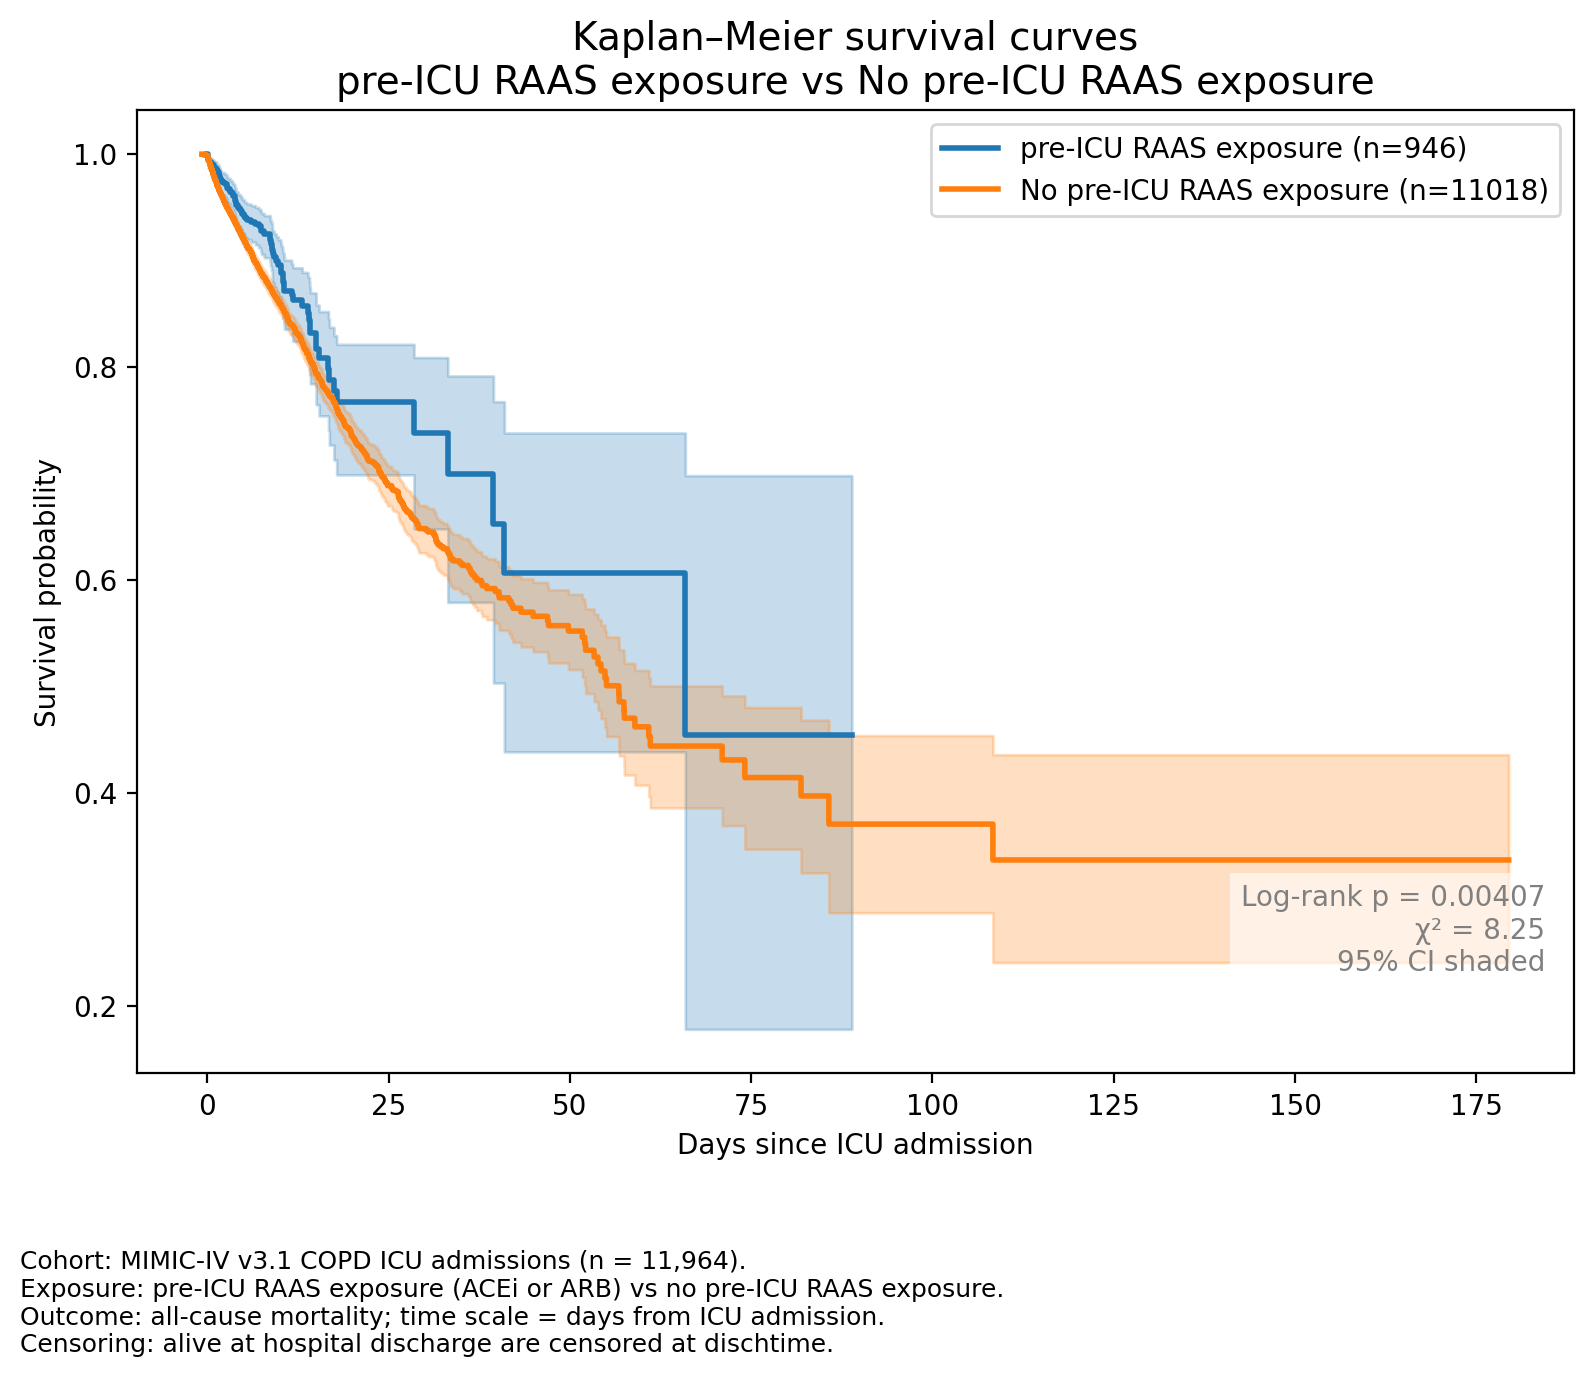
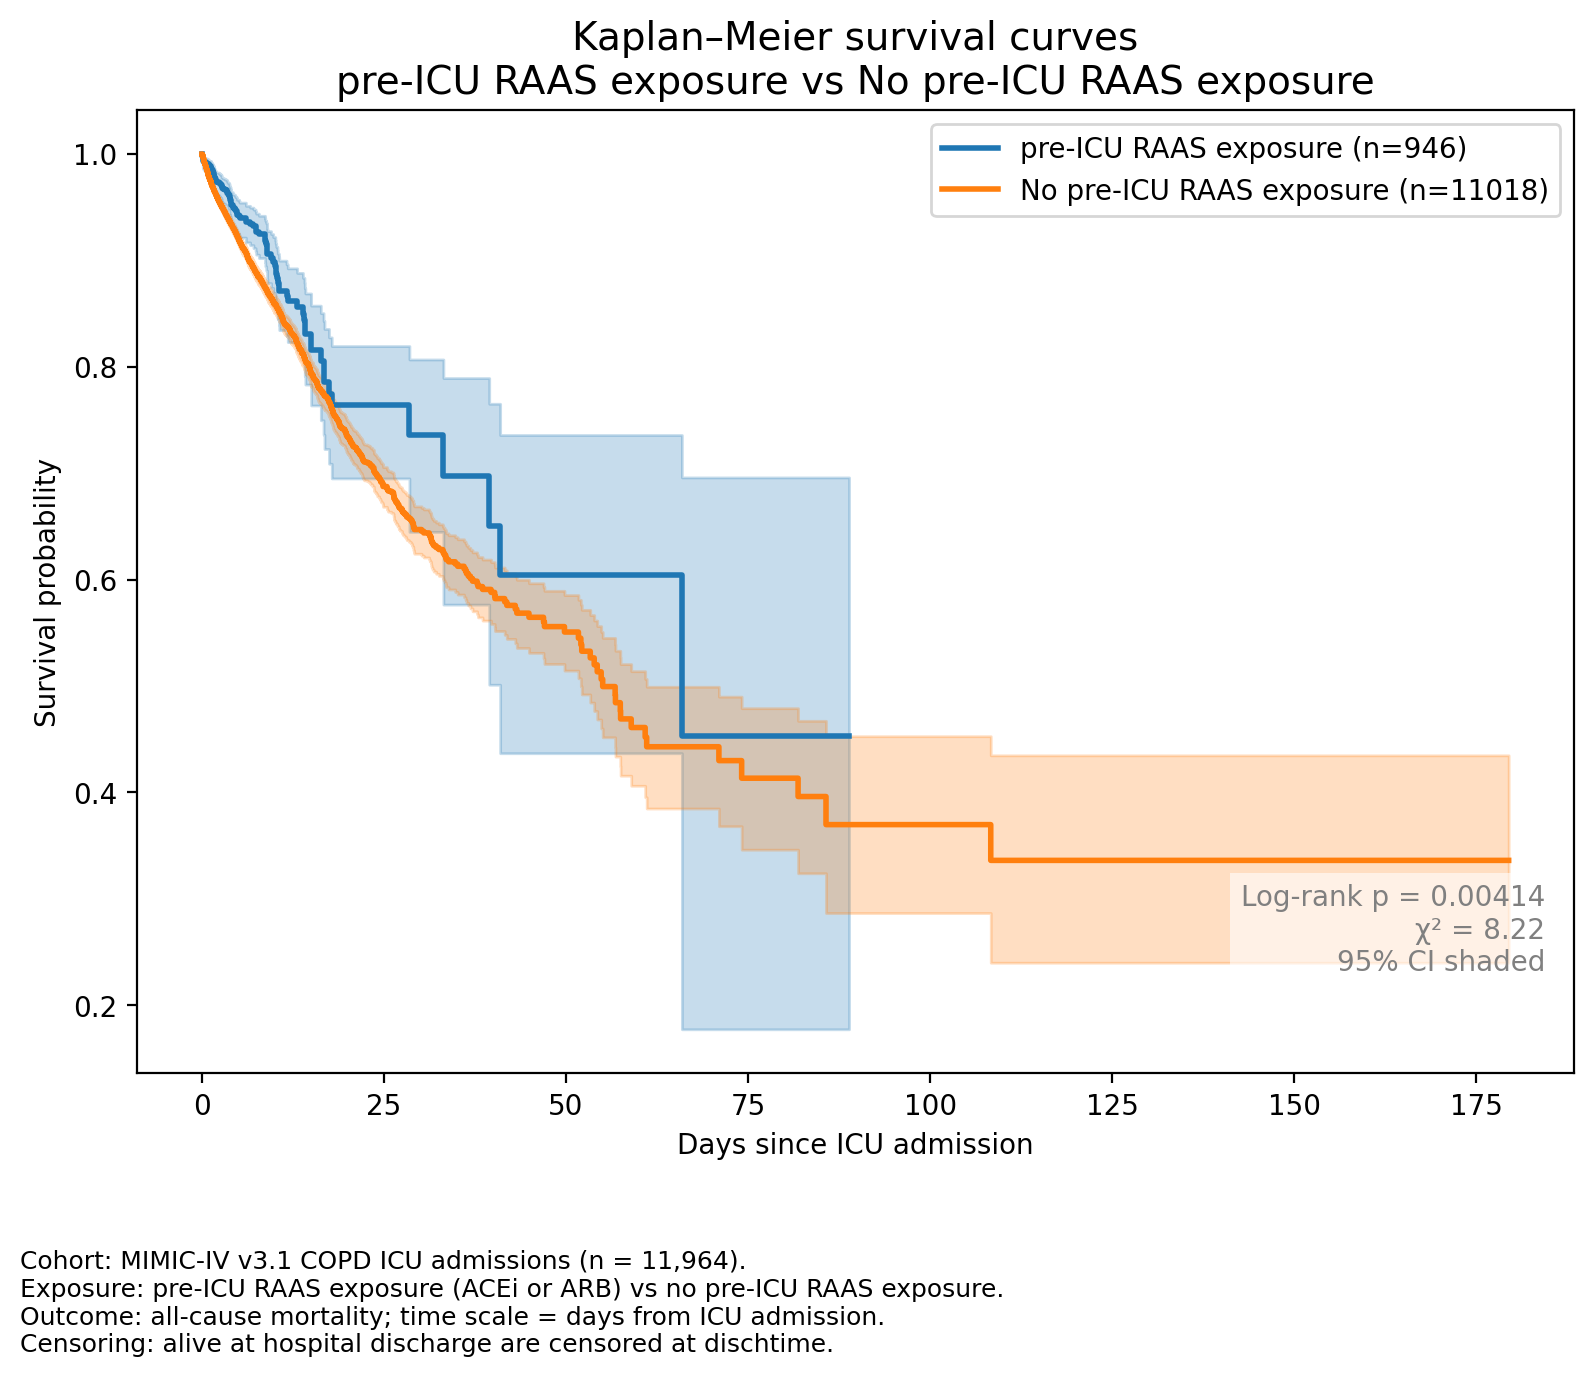
Correct COPD survival endpoint and align documentation

diff --git a/README.md b/README.md
@@ -27,8 +27,9 @@ The Quarto report provides the single narrative version of the study question, m
 | Data source | MIMIC-IV v3.1 |
 | Design | Retrospective observational ICU cohort |
 | Population | Adult ICU patients with COPD |
+| Analytic unit | One qualifying hospital admission per record, anchored to the first ICU stay in that admission |
 | Exposure | Pre-ICU inpatient ACE inhibitor or ARB prescription orders before or at ICU admission |
-| Outcome | Time-to-in-hospital mortality from ICU admission to death or discharge |
+| Outcome | In-hospital death: ICU admission to recorded death time, with discharge-time fallback if death time is unavailable; live discharge: ICU admission to discharge, censored at discharge |
 | Primary analysis | Kaplan-Meier survival curves and Cox proportional hazards modeling |
 | Subgroup analysis | ACE inhibitor vs ARB monotherapy comparison |
 | Sensitivity analysis | Extended covariate and ICU type adjustment |
@@ -50,9 +51,9 @@ Exposure is based on inpatient medication orders before or at ICU admission and 
 ## Key Findings
 
 - Pre-ICU RAAS inhibitor exposure was associated with lower observed in-hospital mortality in Kaplan-Meier and Cox survival analyses.
-- The refined proportional hazards-compliant Cox model estimated HR 0.71 (95% CI 0.58-0.88) for combined pre-ICU RAAS exposure.
+- The refined proportional hazards-compliant Cox model estimated HR 0.72 (95% CI 0.58-0.89; p = 0.00208) for combined pre-ICU RAAS exposure.
 - ACE inhibitor monotherapy showed a stronger observed association than ARB monotherapy; ARB estimates were directionally lower-hazard but not statistically significant.
-- Extended adjustment, including ICU type and additional severity/case-mix variables, attenuated the association.
+- Extended adjustment, including ICU type and additional severity/case-mix variables, attenuated the association. The unpenalized extended core estimate was borderline and did not meet conventional statistical significance (HR 0.809, 95% CI 0.654-1.001; p = 0.05072).
 
 See [Results summary](docs/RESULTS_SUMMARY.md) and [Discussion and limitations](docs/DISCUSSION_AND_LIMITATIONS.md) for interpretation details.
 
@@ -76,11 +77,11 @@ Figures shown in the README are generated from the analysis notebooks and saved 
 
 This unadjusted survival curve compares observed in-hospital survival patterns between ICU COPD patients with and without pre-ICU RAAS inhibitor exposure.
 
-### Cox Hazard Ratio Forest Plot
+### Extended Core Cox Model Forest Plot
 
 ![Cox hazard ratio forest plot](assets/cox_forest_plot.png)
 
-This forest plot summarizes adjusted Cox proportional hazards estimates for the survival-analysis workflow. The estimates should be interpreted as observational associations, not causal treatment effects.
+This forest plot is generated by the 04c extended-covariate notebook and summarizes the unpenalized extended core Cox model adjusted for age, sex, SOFA score, congestive heart failure, chronic kidney disease, and diabetes. It does not depict the refined primary 04a Cox model. In this extended core model, the RAAS estimate was borderline and did not meet conventional statistical significance (HR 0.809, 95% CI 0.654-1.001; p = 0.05072). All estimates should be interpreted as observational associations, not causal treatment effects.
 
 Additional portfolio figures include the RAAS subgroup forest plot and the extended covariate sensitivity comparison in [assets/](assets/).
 
@@ -160,6 +161,8 @@ Key limitations:
 - Inpatient prescription orders do not directly measure outpatient chronic medication use, adherence, dose, duration, or indication.
 - COPD status is identified using diagnosis codes recorded during hospitalization.
 - MIMIC-IV reflects ICU admissions from a specific health system and may not generalize to other settings.
+- Live discharge is treated as censoring in the primary Cox analysis; a competing-risk framework was not implemented.
+- Each record represents a qualifying hospital admission anchored to its first ICU stay. Patients may contribute more than one admission, and the Cox models do not include a patient-level clustering or frailty term.
 - ACE inhibitor vs ARB subgroup comparisons are descriptive and hypothesis-generating.
 - Extended covariate and ICU type adjustment attenuated the observed RAAS association, indicating sensitivity to case-mix and severity adjustment.
 

diff --git a/docs/METHODS_OVERVIEW.md b/docs/METHODS_OVERVIEW.md
@@ -8,7 +8,7 @@ This is a retrospective observational cohort study using MIMIC-IV v3.1, a de-ide
 
 ## Cohort Construction
 
-Adult ICU patients with COPD were identified using ICD-9 and ICD-10 diagnosis codes recorded during hospitalization. Cohort construction is performed at the ICU-stay/admission level using reproducible BigQuery SQL and notebook-based checks.
+Adult ICU patients with COPD were identified using ICD-9 and ICD-10 diagnosis codes recorded during hospitalization. Each analytic record represents one qualifying hospital admission, anchored to the first ICU stay within that admission; subsequent ICU stays during the same hospital admission are excluded. A patient may contribute more than one qualifying hospital admission. Cohort construction uses reproducible BigQuery SQL and notebook-based checks.
 
 Primary workflow:
 
@@ -25,7 +25,7 @@ Detailed exposure indicators include ACE inhibitor exposure, ARB exposure, dual 
 
 ## Outcome Definition
 
-The primary outcome is time-to-in-hospital mortality, measured from ICU admission until in-hospital death or hospital discharge. Patients discharged alive are censored at discharge.
+The primary outcome is time to in-hospital death, with follow-up beginning at ICU admission. For a death event, `time_to_event_days` is measured from ICU admission (`intime`) to the recorded in-hospital death time (`admissions.deathtime`); discharge time (`admissions.dischtime`) is used as an explicitly flagged fallback only when death time is unavailable. For a patient discharged alive, follow-up is measured from ICU admission to discharge time and the record is censored at discharge.
 
 ## Covariates
 
@@ -34,6 +34,8 @@ Covariates were selected a priori based on a conceptual clinical framework and i
 ## Statistical Analysis
 
 The primary clinical analysis uses Kaplan-Meier survival curves and Cox proportional hazards regression. Proportional hazards assumptions are assessed using Schoenfeld residual-based diagnostics. Sensitivity analyses evaluate extended covariates, ICU type, and penalized Cox specifications.
+
+Live discharge is treated as censoring in the primary Cox analysis. A competing-risk framework was not implemented. The Cox models analyze admission-level records and do not include a patient-level clustering or frailty term for patients with more than one qualifying admission.
 
 The `04d_python_logistic_model.ipynb` notebook is secondary validation only. It fits a logistic model to generate parameters for SAS-Python reproducibility comparison and does not replace the Cox survival analysis.
 

diff --git a/docs/RESULTS_SUMMARY.md b/docs/RESULTS_SUMMARY.md
@@ -6,20 +6,22 @@ This document provides a concise summary of the study findings without strengthe
 
 Pre-ICU RAAS inhibitor exposure was associated with lower observed in-hospital mortality among ICU-admitted COPD patients in Kaplan-Meier and Cox proportional hazards analyses.
 
-The refined proportional hazards-compliant Cox model estimated HR 0.71 (95% CI 0.58-0.88) for combined pre-ICU RAAS exposure.
+The refined proportional hazards-compliant Cox model estimated HR 0.72 (95% CI 0.58-0.89; p = 0.00208) for combined pre-ICU RAAS exposure.
 
 ## Subgroup Analysis
 
-ACE inhibitor monotherapy was associated with lower observed in-hospital mortality in the subclass Cox model. ARB monotherapy had a directionally lower-hazard but statistically non-significant estimate.
+ACE inhibitor monotherapy was associated with lower observed in-hospital mortality in the subclass Cox model (HR 0.663, 95% CI 0.507-0.869; p = 0.00286). ARB monotherapy had a directionally lower-hazard but statistically non-significant estimate (HR 0.800, 95% CI 0.569-1.124; p = 0.19883).
 
 Subclass comparisons are hypothesis-generating and may be affected by confounding by indication, prescribing history, contraindications, and differences in comorbidity profiles.
 
 ## Extended Covariate Models
 
-In the unpenalized core Cox model with extended covariates, pre-ICU RAAS exposure had HR 0.809 (95% CI 0.654-1.000, p = 0.050).
+In the unpenalized core Cox model with extended covariates, pre-ICU RAAS exposure had HR 0.809 (95% CI 0.654-1.001; p = 0.05072). This borderline estimate did not meet conventional statistical significance because the confidence interval included 1 and the p-value was greater than 0.05.
 
 In the penalized core model, the point estimate remained below 1 but was not statistically significant. After adding ICU type, the RAAS estimate was attenuated and was not statistically significant.
 
 ## Interpretation
 
 The findings are observational associations. They are consistent with a hypothesis that pre-ICU RAAS exposure may identify a lower-risk or differently managed COPD ICU population, but the analysis cannot establish causality. Residual confounding may remain despite covariate adjustment and sensitivity analyses.
+
+Death events were timed from ICU admission to recorded in-hospital death time, with discharge time used only as a flagged fallback when death time was unavailable. Live discharge was treated as censoring, and a competing-risk framework was not implemented.

diff --git a/docs/DISCUSSION_AND_LIMITATIONS.md b/docs/DISCUSSION_AND_LIMITATIONS.md
@@ -10,6 +10,8 @@ When RAAS inhibitors were evaluated by subclass, ACE inhibitor exposure showed a
 
 Sensitivity analyses attenuated the association after additional adjustment, including ICU type and acute illness severity measures. This suggests that ICU-level case mix, organ dysfunction, and clinical severity may contribute to the observed signal.
 
+The unpenalized extended core Cox estimate was borderline (HR 0.809, 95% CI 0.654-1.001; p = 0.05072) and did not meet conventional statistical significance. The further attenuation in penalized and ICU-type-adjusted specifications reinforces the sensitivity of the association to model specification and case-mix adjustment.
+
 ## Comparison With Prior Studies
 
 The findings are directionally consistent with prior observational COPD literature, including the Veterans Affairs cohort reported by Mortensen et al., which found lower observed short-term mortality among patients hospitalized for acute COPD exacerbations who were receiving ACE inhibitors or ARBs before admission.
@@ -29,6 +31,10 @@ The exposure definition uses inpatient prescription orders before or at ICU admi
 COPD status is identified using ICD-9 and ICD-10 diagnosis codes recorded during hospitalization. This supports reproducible EHR cohort construction but may introduce misclassification compared with spirometry-confirmed COPD.
 
 The analysis uses MIMIC-IV ICU admissions from a specific health system. Results may not generalize to other hospitals, non-ICU COPD populations, outpatient cohorts, or current prescribing contexts.
+
+Live discharge was treated as censoring in the primary Cox analysis. Because discharge may alter the opportunity to observe in-hospital death, this censoring assumption should be considered when interpreting the survival estimates. A competing-risk framework was not implemented.
+
+Each analytic record represents a qualifying hospital admission anchored to its first ICU stay. Patients may contribute more than one qualifying admission, and the Cox models do not account for within-patient correlation with a clustering or frailty term.
 
 Subclass comparisons between ACE inhibitors and ARBs are especially hypothesis-generating. Patients receiving these medication classes may differ in contraindications, comorbidities, prescribing history, and tolerance of therapy. Observed differences between ACE inhibitor and ARB groups should be treated as signals for future study rather than causal evidence.
 

diff --git a/docs/04c_extended_covariate_cox_model_SHORT.md b/docs/04c_extended_covariate_cox_model_SHORT.md
@@ -19,12 +19,14 @@ The extended outcome table supports adjusted Cox models with SOFA score, comorbi
 - Adds first-day SOFA score, Charlson-derived comorbidity indicators, and ICU type.
 - Uses `raas_pre_icu` as the primary exposure.
 - Does not include ACE inhibitor or ARB subclass indicators in the 04c Cox model specification.
+- Carries forward the corrected outcome timing: ICU admission to recorded in-hospital death time for events, with discharge-time fallback only when death time is unavailable; live discharge is censoring.
 - Fits core and ICU-extended Cox proportional hazards models.
 - Evaluates unpenalized and penalized model specifications.
 - Assesses proportional hazards assumptions using Schoenfeld residual-based diagnostics.
+- Does not implement a competing-risk framework.
 
 ## Key Results Summary
-- In the unpenalized core Cox model, pre-ICU RAAS exposure had HR 0.809 (95% CI 0.654-1.000, p = 0.050).
+- In the unpenalized core Cox model, pre-ICU RAAS exposure had HR 0.809 (95% CI 0.654-1.001; p = 0.05072). This borderline estimate did not meet conventional statistical significance.
 - In the penalized core model, the point estimate remained below 1 but was not statistically significant.
 - After adding ICU type, the RAAS estimate was attenuated and was not statistically significant.
 - Results suggest sensitivity to severity, care setting, and ICU-level case mix, and should be interpreted as observational associations.

diff --git a/docs/04b_outcomes_and_modeling_raas_subgroups_SHORT.md b/docs/04b_outcomes_and_modeling_raas_subgroups_SHORT.md
@@ -20,12 +20,14 @@ Subclass findings provide context for the extended covariate models in `04c_exte
 - Joins outcome data with detailed RAAS subclass exposure indicators.
 - Constructs mutually exclusive ACE inhibitor and ARB monotherapy indicators.
 - Excludes rare dual ACE inhibitor plus ARB exposure from monotherapy Cox modeling.
+- Uses the corrected outcome timing: ICU admission to recorded in-hospital death time for events, with discharge-time fallback only when death time is unavailable; live discharge is censoring.
 - Fits Kaplan-Meier curves and stratified Cox proportional hazards models.
 - Evaluates proportional hazards assumptions using Schoenfeld residual tests.
+- Does not implement a competing-risk framework.
 
 ## Key Results Summary
-- ACE inhibitor monotherapy was associated with lower observed in-hospital mortality in the subclass Cox model.
-- ARB monotherapy had a directionally lower-hazard but statistically non-significant estimate.
+- ACE inhibitor monotherapy was associated with lower observed in-hospital mortality in the subclass Cox model (HR 0.663, 95% CI 0.507-0.869; p = 0.00286).
+- ARB monotherapy had a directionally lower-hazard but statistically non-significant estimate (HR 0.800, 95% CI 0.569-1.124; p = 0.19883).
 - Results are interpreted as observational associations and may be affected by residual confounding.
 
 ## Next Step

diff --git a/docs/04a_outcomes_and_modeling_SHORT.md b/docs/04a_outcomes_and_modeling_SHORT.md
@@ -17,14 +17,17 @@ The outcome table is used by subclass analyses in `04b_outcomes_and_modeling_raa
 
 ## Key Methods
 - Builds in-hospital mortality outcome variables in BigQuery.
-- Defines `death_event` as in-hospital death and `time_to_event_days` as ICU admission to death or hospital discharge.
+- Defines `death_event` as recorded in-hospital death.
+- For death events, measures `time_to_event_days` from ICU admission to `admissions.deathtime`, with `admissions.dischtime` used as a flagged fallback only when death time is unavailable.
+- For live discharges, measures `time_to_event_days` from ICU admission to discharge and treats discharge as censoring.
 - Fits Kaplan-Meier curves and Cox proportional hazards models.
 - Uses Schoenfeld residual testing to assess proportional hazards assumptions.
 - Uses a refined Cox model stratified by `anchor_year_group`.
+- Does not implement a competing-risk framework.
 
 ## Key Results Summary
 - Pre-ICU RAAS exposure was associated with lower observed in-hospital mortality in the primary and refined Cox models.
-- The refined proportional hazards-compliant model estimated HR 0.71 (95% CI 0.58-0.88).
+- The refined proportional hazards-compliant model estimated HR 0.72 (95% CI 0.58-0.89; p = 0.00208).
 - Findings are interpreted as observational associations, not causal effects.
 
 ## Next Step

diff --git a/docs/mimic_modernization_plan.md b/docs/mimic_modernization_plan.md
@@ -20,9 +20,9 @@ This project demonstrates a reproducible real-world evidence workflow using MIMI
 ## Dataset Snapshot
 
 - Data source: MIMIC-IV v3.1 via PhysioNet and BigQuery.
-- Cohort: Adult ICU admissions with COPD identified using ICD-9 and ICD-10 diagnosis codes.
+- Cohort: Adult hospital admissions with COPD identified using ICD-9 and ICD-10 diagnosis codes, with each record anchored to the first ICU stay in that admission.
 - Exposure: Pre-ICU inpatient prescription orders for ACE inhibitors or ARBs before or at ICU admission, with combined RAAS and ACE inhibitor/ARB subclass indicators.
-- Outcome: Time-to-in-hospital mortality from ICU admission to death or hospital discharge; patients discharged alive are censored at discharge.
+- Outcome: For in-hospital deaths, ICU admission to recorded death time, with discharge-time fallback only when death time is unavailable; for live discharges, ICU admission to discharge with censoring at discharge. A competing-risk framework was not implemented.
 - Sample size: Existing notebook outputs report 11,964 COPD ICU admissions for the primary survival cohort.
 - Compliance: Repository contains no patient-level data and requires independent MIMIC-IV/PhysioNet, Google Cloud, BigQuery, and SAS configuration for reproduction.
 

diff --git a/docs/FIGURE_REPRODUCIBILITY.md b/docs/FIGURE_REPRODUCIBILITY.md
@@ -7,7 +7,7 @@ Notebook-generated result figures are written to stable paths under `assets/`. R
 | Figure | Primary use | Exporting notebook | Output path |
 | --- | --- | --- | --- |
 | Kaplan-Meier survival curve | README and Quarto report | `notebooks/04a_outcomes_and_modeling.ipynb` | `assets/kaplan_meier_curve.png` |
-| Cox hazard ratio forest plot | README and Quarto report | `notebooks/04c_extended_covariate_cox_model.ipynb` | `assets/cox_forest_plot.png` |
+| Extended core Cox model forest plot | README and Quarto report | `notebooks/04c_extended_covariate_cox_model.ipynb` | `assets/cox_forest_plot.png` |
 | ACE inhibitor versus ARB subgroup forest plot | Quarto report | `notebooks/04b_outcomes_and_modeling_raas_subgroups.ipynb` | `assets/raas_subgroup_forest_plot.svg` |
 | Extended covariate sensitivity comparison | Quarto report | `notebooks/04c_extended_covariate_cox_model.ipynb` | `assets/cox_model_sensitivity_comparison.svg` |
 

diff --git a/REPRODUCIBILITY.md b/REPRODUCIBILITY.md
@@ -28,7 +28,7 @@ The workflow is organized as a stepwise clinical analysis pipeline:
    - `sql/03_merge_exposures.sql`
    - `notebooks/03a_baseline.ipynb`
    - `notebooks/03b_merge_exposures.ipynb`
-4. **Outcome construction**: time-to-in-hospital mortality is built from ICU admission through death or discharge.
+4. **Outcome construction**: for in-hospital deaths, follow-up runs from ICU admission to `admissions.deathtime`, with `admissions.dischtime` used as a flagged fallback only when death time is unavailable. For live discharges, follow-up runs from ICU admission to discharge and is censored at discharge. A competing-risk framework is not implemented.
    - `sql/04_build_outcomes.sql`
    - `sql/04_build_outcomes_extended.sql`
 5. **Primary statistical analysis**: Kaplan-Meier survival curves and Cox proportional hazards models are run in Python.
